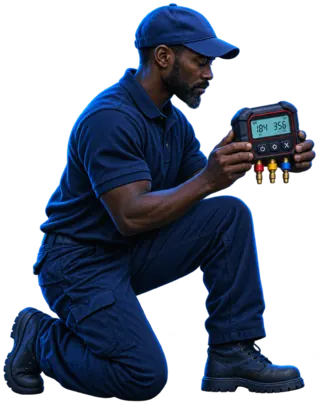
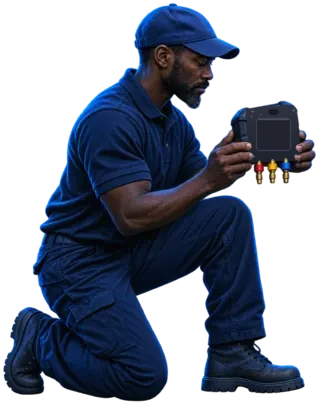
Turn the HVAC tech's gauge toward him and fix the book slogan
The kneeling tech was looking at the back of his digital manifold while
its screen faced the viewer. Repaint the gauge face as the case back
(battery door, hanger recess) so he reads the display; the hose ports
stay in place, and red/yellow/blue left to right is now the correct
back view of a standard blue/yellow/red manifold.

Use the official "BUILT BY HUSTL3. BACKED BY TRADES." slogan in the
homepage book section, with a test guarding it.

Claude-Session: https://claude.ai/code/session_01UnSxX6gcbEWPmpfFbHjRDX

Changed region(s): [[0.7618, 0.2376, 0.9592, 0.4158]]

diff --git a/app/home-book-formats.tsx b/app/home-book-formats.tsx
@@ -13,6 +13,9 @@ const FORMATS = [
 ] as const;
 
 // Fitting tips on the worker image, normalized to the trimmed image bounds.
+// The tech reads the gauge face, so the viewer sees the case back: a standard
+// blue/yellow/red manifold appears red, yellow, blue from left to right.
+// Keep FORMATS in that order so each hose matches the port it leaves.
 const MANIFOLD_PORTS = [[.813, .453], [.854, .452], [.896, .452]] as const;
 
 export function HomeBookFormats() {

diff --git a/app/home-storefront.tsx b/app/home-storefront.tsx
@@ -20,7 +20,7 @@ export function HomeStorefront() {
             <span>A Message for the</span>{' '}
             <strong>Next Generation.</strong>
           </h2>
-          <p className={styles.slogan}>BUILT BY HUSTL3. BACKED BY TRADE.</p>
+          <p className={styles.slogan}>BUILT BY HUSTL3. BACKED BY TRADES.</p>
           <HomeBookPreview />
         </div>
         <div className={styles.coverFrame}>
